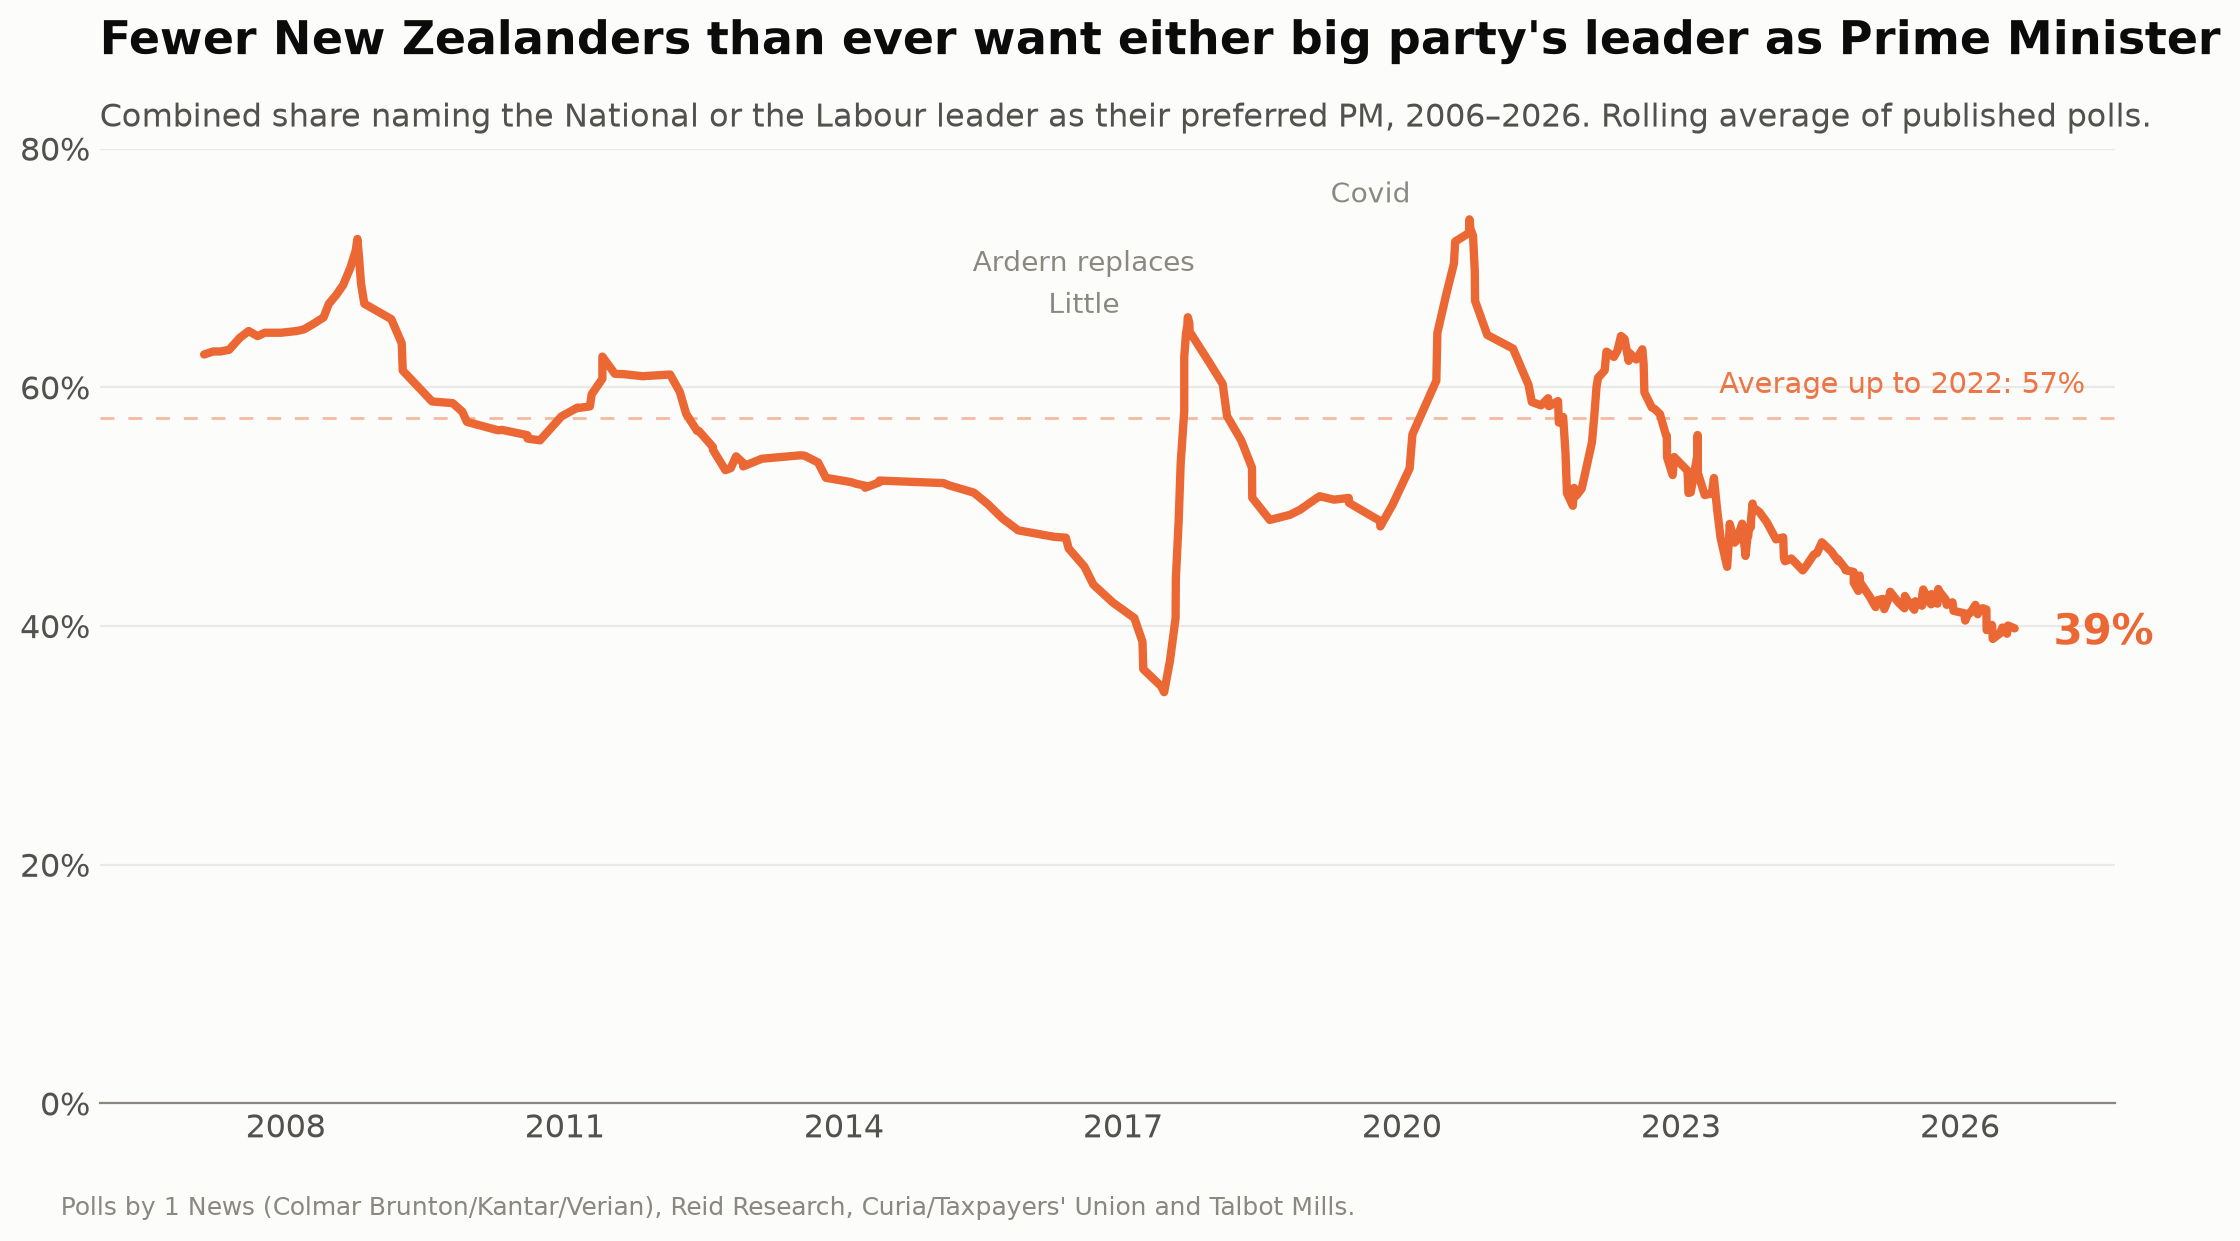
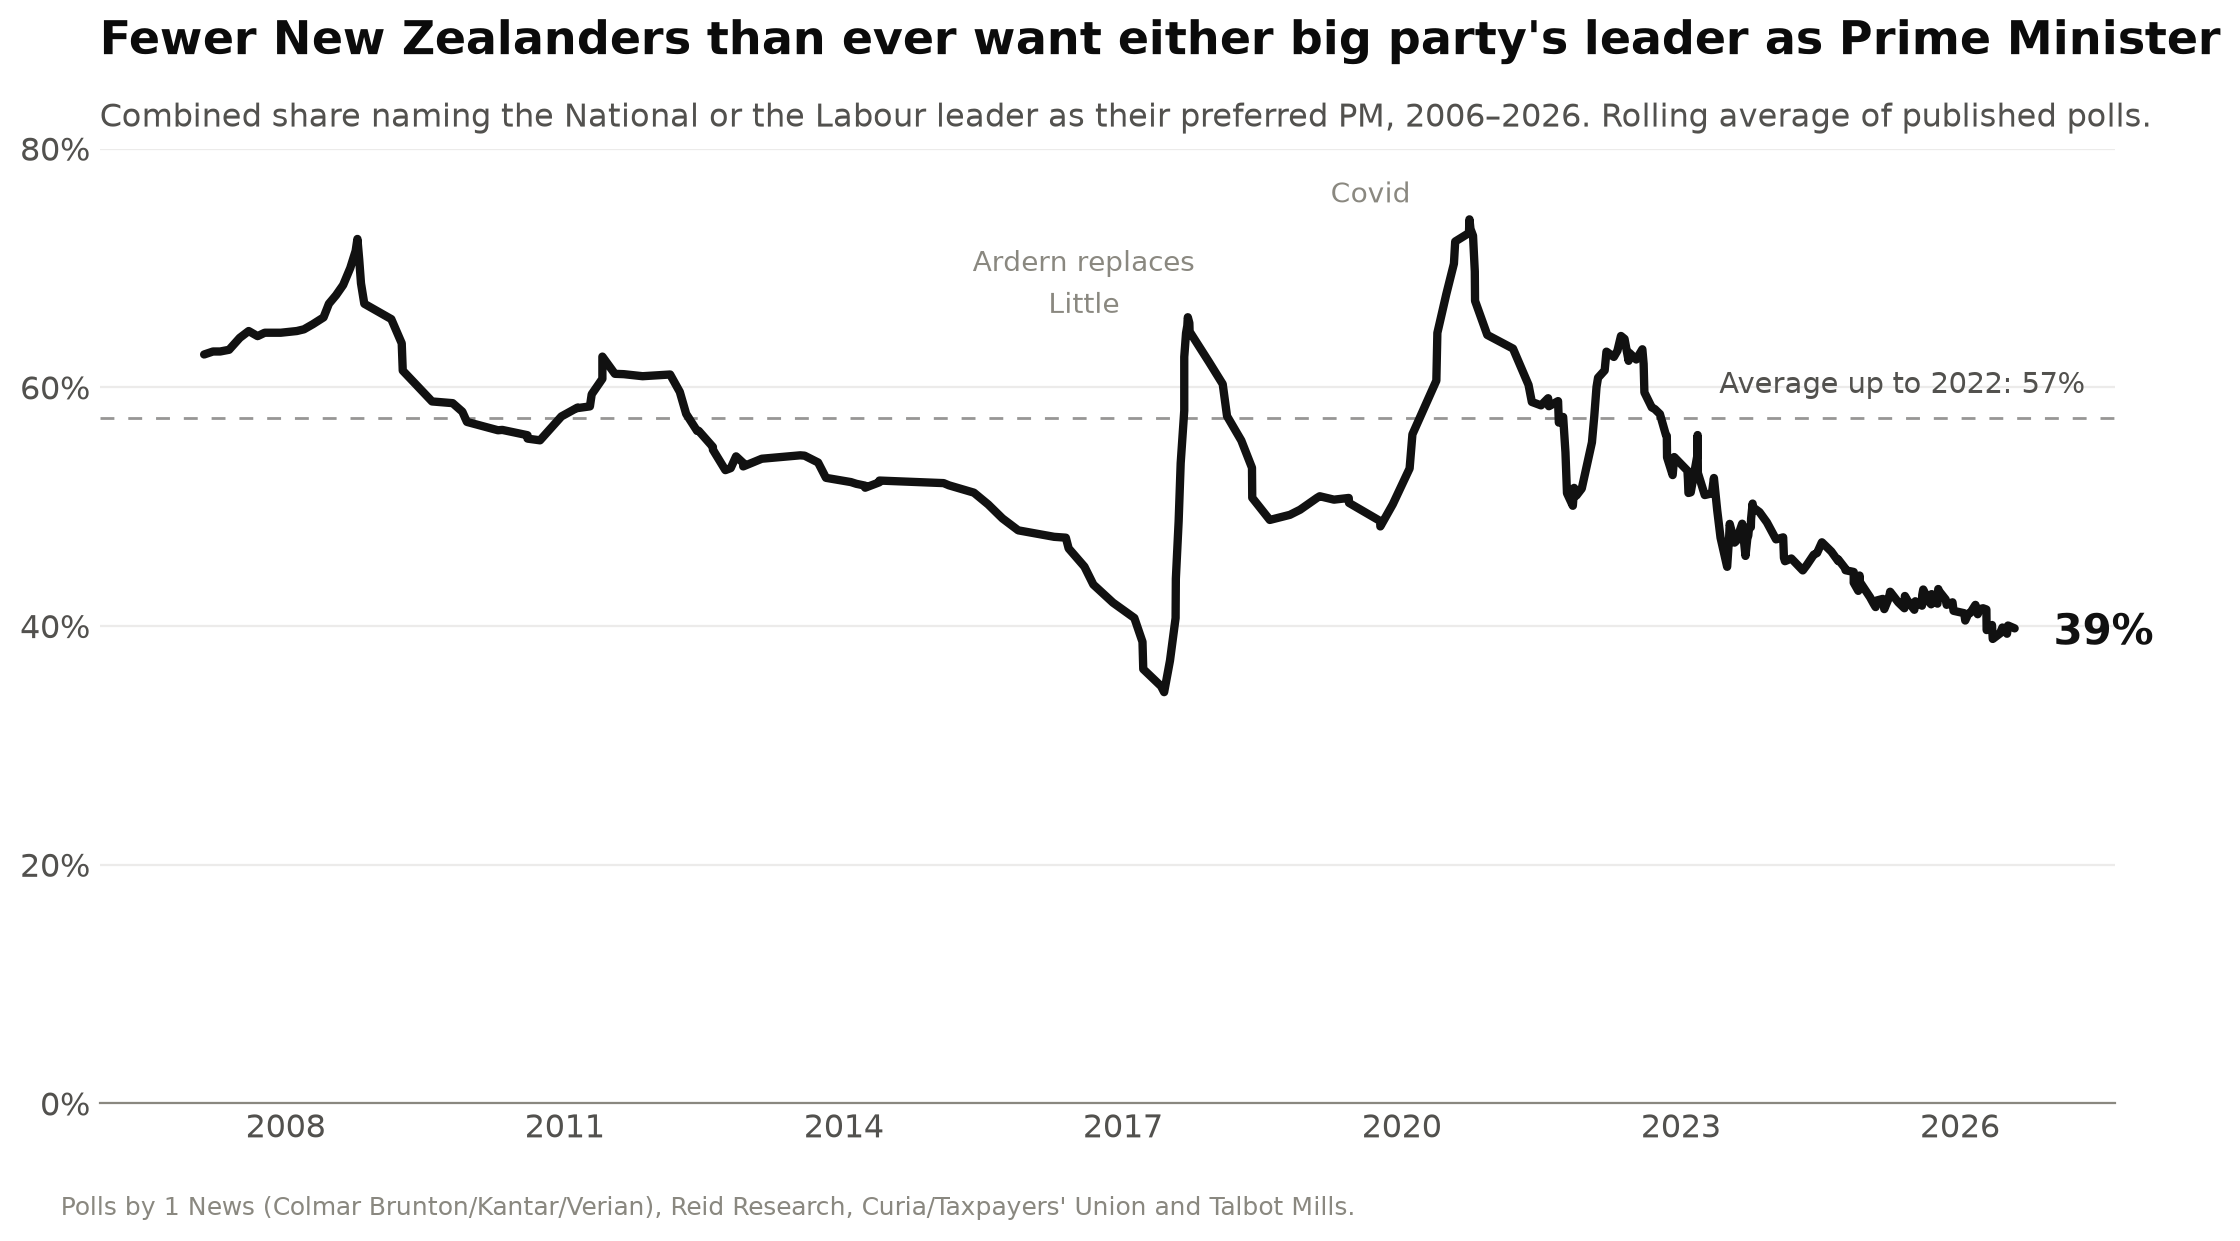
Make the preferred-PM chart black and white
Black data line on white. No hue sidesteps the party-colour problem entirely,
which is what the last three recolourings were circling. The dashed average and
the spike notes drop to grey so the data line owns the only true black.

diff --git a/pm_majors_graph.py b/pm_majors_graph.py
@@ -22,9 +22,8 @@ from pm_history_graph import LEADER_PARTY
 ROOT = Path(__file__).parent
 
 START = "2006-01-01"
-# Orange: the line combines National and Labour, so it must not wear either
-# party's colour, and it must not read as blue. No NZ party claims orange.
-INK = "#eb6834"
+# Black and white: no hue at all sidesteps the party-colour problem entirely.
+INK = "#111111"
 
 CORE_HOUSES = {
     "1 News (Colmar Brunton / Kantar / Verian)": ("colmar", "kantar", "verian"),
@@ -42,7 +41,7 @@ NOTES = [
 TEXT_PRIMARY = "#0b0b0b"
 TEXT_SECONDARY = "#52514e"
 TEXT_MUTED = "#8a8880"
-SURFACE = "#fcfcfb"
+SURFACE = "#ffffff"
 
 
 def house(pollster: str):
@@ -81,11 +80,11 @@ def main():
     fig.patch.set_facecolor(SURFACE)
     ax.set_facecolor(SURFACE)
 
-    ax.axhline(baseline, color=INK, linewidth=1, linestyle=(0, (5, 5)),
-               alpha=0.45, zorder=2)
+    ax.axhline(baseline, color=TEXT_SECONDARY, linewidth=1, linestyle=(0, (5, 5)),
+               alpha=0.6, zorder=2)
     ax.text(pd.Timestamp("2023-06-01"), baseline + 1.5,
             f"Average up to 2022: {baseline:.0f}%",
-            fontsize=10.5, color=INK, alpha=0.9, va="bottom")
+            fontsize=10.5, color=TEXT_SECONDARY, va="bottom")
 
     for date, y, text in NOTES:
         ax.annotate(text, xy=(pd.Timestamp(date), y), ha="center", va="top",
